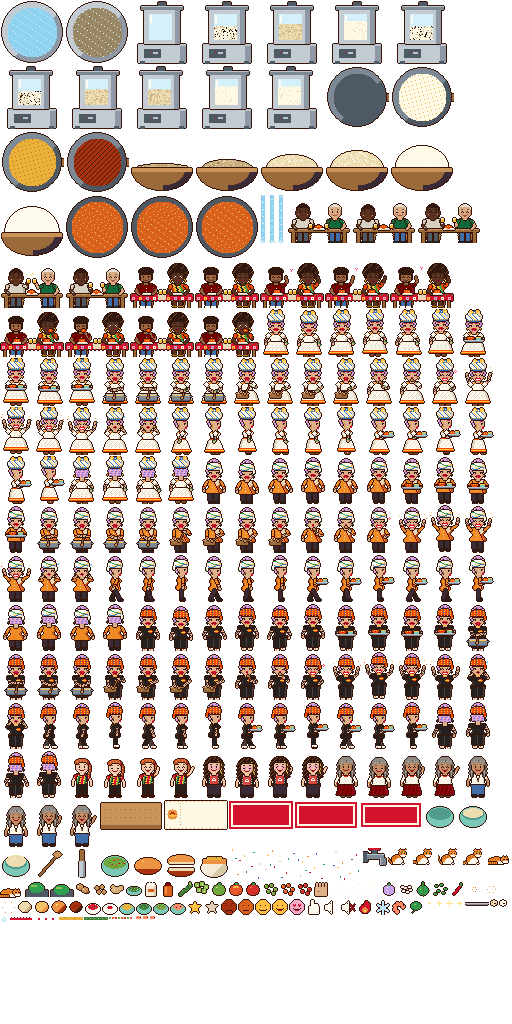
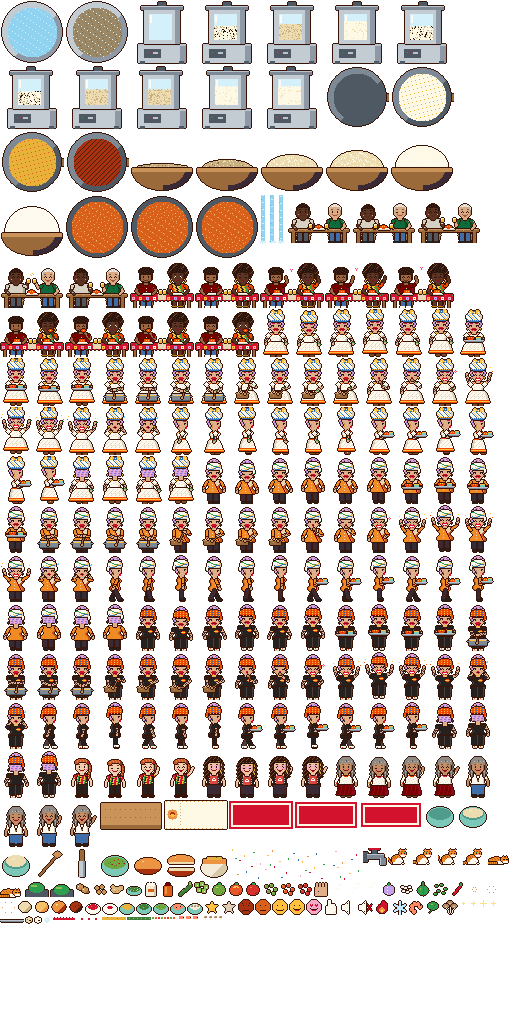
feat(acarabet): shimeji no lugar do camarão na versão vegetariana

diff --git a/src/jogo/cenas/etapas2.ts b/src/jogo/cenas/etapas2.ts
@@ -198,8 +198,9 @@ export class Fritar extends Etapa {
 }
 
 // ─── 8. Montar (na ordem certa e do jeito que o casal pediu) ──────────────────
-/** Potinhos na bancada: as duas pimentas (com pimenta 🔥 / pouca pimenta ❄), vatapá, caruru, salada e camarão. */
-const POTES = ['pimenta', 'pimenta_pouca', 'vatapa', 'caruru', 'salada', 'camarao'] as const;
+/** Potinhos na bancada: as duas pimentas (com pimenta 🔥 / pouca pimenta ❄), vatapá, caruru, salada, camarão e shimeji. */
+const POTES = ['pimenta', 'pimenta_pouca', 'vatapa', 'caruru', 'salada', 'camarao', 'shimeji'] as const;
+const X_POTE = (i: number) => 13 + i * 25.7;
 type Pote = (typeof POTES)[number];
 
 export class Montar extends Etapa {
@@ -219,7 +220,7 @@ export class Montar extends Etapa {
   protected montar() {
     this.feitos = this.erros = 0;
     const pimenta: Pote = estado.pimenta === 'forte' ? 'pimenta' : 'pimenta_pouca';
-    this.sequencia = [pimenta, 'vatapa', 'caruru', 'salada', ...(estado.vegetariano ? [] : (['camarao'] as Pote[]))];
+    this.sequencia = [pimenta, 'vatapa', 'caruru', 'salada', estado.vegetariano ? 'shimeji' : 'camarao'];
     // o acarajé aberto: as metades separadas pra caber o recheio no meio
     this.add.image(this.A.x, this.A.y, 'atlas', 'acaraje_aberto_0').setScale(3).setCrop(0, 17, 32, 15);
     this.cima = this.add.image(this.A.x, this.A.y, 'atlas', 'acaraje_aberto_0').setScale(3).setCrop(0, 0, 32, 17).setDepth(10);
@@ -228,15 +229,15 @@ export class Montar extends Etapa {
     this.marcas = this.sequencia.map((n, i) => this.add.image(12 + i * 18, 128, 'atlas', `pote_${n}_0`));
     this.add.rectangle(108, 120, 1, 16, COR.creme, 0.6).setOrigin(0);
     this.add.image(124, 128, 'atlas', estado.pimenta === 'forte' ? 'icone_fogo_0' : 'icone_frio_0');
-    this.add.image(144, 128, 'atlas', estado.vegetariano ? 'icone_veg_0' : 'icone_camarao_0');
+    this.add.image(144, 128, 'atlas', estado.vegetariano ? 'icone_shimeji_0' : 'icone_camarao_0');
     this.add.image(164, 128, 'atlas', 'acaraje_fechado_0').setScale(0.5);
     this.destacaProximo();
 
     POTES.forEach((n, i) => {
-      const x0 = 15 + i * 30, y0 = 294;
+      const x0 = X_POTE(i), y0 = 294;
       if (n === 'pimenta') this.add.image(x0, y0 - 22, 'atlas', 'icone_fogo_0');
       if (n === 'pimenta_pouca') this.add.image(x0, y0 - 22, 'atlas', 'icone_frio_0');
-      const p = this.add.image(x0, y0, 'atlas', `pote_${n}_0`).setScale(2).setDepth(30)
+      const p = this.add.image(x0, y0, 'atlas', `pote_${n}_0`).setScale(1.75).setDepth(30)
         .setInteractive({ draggable: true, useHandCursor: true });
       p.on('drag', (_p: Phaser.Input.Pointer, x: number, y: number) => this.rodando && p.setPosition(x, y));
       p.on('dragend', () => this.solta(n, p, x0, y0));
@@ -260,7 +261,8 @@ export class Montar extends Etapa {
     if (!dentro || !this.rodando) return volta();
     const esperado = this.sequencia[this.feitos];
     if (nome !== esperado) {
-      if (nome === 'camarao' && estado.vegetariano) this.erro('É VEGETARIANO!');
+      if (nome === 'camarao' && estado.vegetariano) this.erro('É VEGETARIANO: SHIMEJI!');
+      else if (nome === 'shimeji' && !estado.vegetariano) this.erro('É TRADICIONAL: CAMARÃO!');
       else if (nome === 'pimenta' && estado.pimenta === 'pouca') this.erro('É POUCA PIMENTA!');
       else if (nome === 'pimenta_pouca' && estado.pimenta === 'forte') this.erro('É COM PIMENTA!');
       else if (!this.sequencia.slice(0, this.feitos).includes(nome)) this.erro('NA ORDEM!');
@@ -286,6 +288,6 @@ export class Montar extends Etapa {
 
   protected demonstrar(mao: Phaser.GameObjects.Image) {
     const i = POTES.indexOf(this.sequencia[0]);
-    this.maoEntre(mao, [[15 + i * 30, 296], [this.A.x, this.A.y]], 800);
+    this.maoEntre(mao, [[X_POTE(i), 296], [this.A.x, this.A.y]], 800);
   }
 }

diff --git a/src/jogo/estado.ts b/src/jogo/estado.ts
@@ -24,11 +24,11 @@ export const ETAPAS: InfoEtapa[] = [
   { id: 'salada', cena: 'Salada', nome: 'SALADA', instrucao: 'TOQUE PRA PICAR QUANDO A FACA ESTIVER EM CIMA DO TOMATE: VERDE, MEIO AMARELADO E VERMELHO. CUIDADO COM O DEDO!' },
   { id: 'bater', cena: 'Bater', nome: 'BATER A MASSA', instrucao: 'TOQUE RAPIDINHO NA TELA PRA BATER. A MASSA VAI CRESCENDO ATÉ FICAR BRANQUINHA E LEVINHA!' },
   { id: 'fritar', cena: 'Fritar', nome: 'FRITAR', instrucao: 'TOQUE NA MASSA PRA JOGAR OS 4 BOLINHOS NO DENDÊ (OU NO TACHO, UM POR UM). DOUROU E BRILHOU? TOQUE PRA VIRAR. DOUROU DE NOVO? TOQUE PRA TIRAR.' },
-  { id: 'montar', cena: 'Montar', nome: 'MONTAR', instrucao: 'ARRASTE NA ORDEM: PIMENTA NO BOLINHO, VATAPÁ, CARURU, SALADA E CAMARÃO POR CIMA. OLHE O PEDIDO!' },
+  { id: 'montar', cena: 'Montar', nome: 'MONTAR', instrucao: 'ARRASTE NA ORDEM: PIMENTA NO BOLINHO, VATAPÁ, CARURU, SALADA E, POR CIMA, CAMARÃO (OU SHIMEJI NO VEGETARIANO). OLHE O PEDIDO!' },
   { id: 'servir', cena: 'Servir', nome: 'SERVIR', instrucao: 'TOQUE NA MESA DO CASAL PRA BIA LEVAR O ACARAJÉ QUENTINHO.' },
 ];
 
-/** Ordem da montagem (a pimenta varia: com pimenta ou pouca pimenta; o camarão só no tradicional). */
+/** Ordem da montagem (a pimenta varia: com pimenta ou pouca pimenta; por cima, camarão no tradicional e shimeji no vegetariano). */
 export const ORDEM_MONTAGEM = ['pimenta', 'vatapa', 'caruru', 'salada', 'camarao'] as const;
 
 const MAX_ESTRELAS = ETAPAS.length * 3;
@@ -55,7 +55,7 @@ export const estado = {
   roupa: 'baiana' as Roupa,
   /** Pedido do casal: 'forte' (foguinho) = com pimenta · 'pouca' (friozinho) = pouca pimenta. */
   pimenta: 'forte' as 'forte' | 'pouca',
-  /** Tradicional leva camarão por cima; vegetariano, não. */
+  /** Tradicional leva camarão por cima; vegetariano leva shimeji. */
   vegetariano: false,
   estrelas: {} as Record<string, number>,
   fila: [] as string[], // etapas que faltam (na primeira vez, todas; depois, as que vai refazer)
@@ -82,9 +82,9 @@ export function nivelSatisfacao(): number {
   return proporcao < 0.4 ? 0 : proporcao < 0.55 ? 1 : proporcao < 0.67 ? 2 : proporcao < 0.85 ? 3 : 4;
 }
 
-/** Texto do pedido, ex.: "TRADICIONAL COM PIMENTA" / "VEGETARIANO COM POUCA PIMENTA". */
+/** Texto do pedido, ex.: "TRADICIONAL, COM CAMARÃO E PIMENTA" / "VEGETARIANO, COM SHIMEJI E POUCA PIMENTA". */
 export const textoPedido = () =>
-  `${estado.vegetariano ? 'VEGETARIANO' : 'TRADICIONAL'} COM ${estado.pimenta === 'pouca' ? 'POUCA ' : ''}PIMENTA`;
+  `${estado.vegetariano ? 'VEGETARIANO, COM SHIMEJI' : 'TRADICIONAL, COM CAMARÃO'} E ${estado.pimenta === 'pouca' ? 'POUCA ' : ''}PIMENTA`;
 
 export const satisfeito = () => totalEstrelas() >= META_SATISFACAO || estado.rodada >= 2; // ninguém sai sem cupom
 export const infoEtapa = (id: string) => ETAPAS.find((e) => e.id === id)!;

diff --git a/src/jogo/main.ts b/src/jogo/main.ts
@@ -10,7 +10,7 @@ import { Lavar, Triturar, Temperos, Vatapa, Caruru, Salada } from './cenas/etapa
 import { Bater, Fritar, Montar } from './cenas/etapas2';
 import { Servir } from './cenas/Servir';
 import { Premio, Cupom } from './cenas/Premio';
-import { config, type Config } from './estado';
+import { config, estado, type Config } from './estado';
 import { definirRaiz } from './cupom';
 import { fritando } from './som';
 
@@ -92,6 +92,9 @@ export function iniciarJogo(raiz: HTMLElement, cfg: Partial<Config> = {}) {
   // Atalho de teste (só em desenvolvimento): /acarabet?cena=Fritar
   const cena = new URLSearchParams(location.search).get('cena');
   if (import.meta.env.DEV && cena) {
+    const q = new URLSearchParams(location.search);
+    if (q.get('veg') === '1') estado.vegetariano = true;
+    if (q.get('pimenta') === 'pouca') estado.pimenta = 'pouca';
     game.events.once('ready', () => {
       const carregar = game.scene.getScene('Carregando');
       carregar.events.once('shutdown', () => {

diff --git a/src/jogo/cenas/Pedido.ts b/src/jogo/cenas/Pedido.ts
@@ -15,7 +15,7 @@ export class Pedido extends Phaser.Scene {
     botaoSom(this);
     const c = salao.posicoes.casal;
 
-    // Balão de pedido centralizado em cima do casal: acarajé + pimenta (foguinho/friozinho) + camarão ou folhinha
+    // Balão de pedido centralizado em cima do casal: acarajé + pimenta (foguinho/friozinho) + camarão ou shimeji
     const larguras = [32, 16, 16], espaco = 6, margem = 6, bh = 30;
     const bw = larguras.reduce((a, b) => a + b, 0) + espaco * (larguras.length - 1) + margem * 2;
     const meio = c.x + 32; // o sprite do casal tem 64 px
@@ -30,7 +30,7 @@ export class Pedido extends Phaser.Scene {
     const frames = [
       'acaraje_fechado_0',
       estado.pimenta === 'forte' ? 'icone_fogo_0' : 'icone_frio_0',
-      estado.vegetariano ? 'icone_veg_0' : 'icone_camarao_0',
+      estado.vegetariano ? 'icone_shimeji_0' : 'icone_camarao_0',
     ];
     let x = bx + margem;
     const icones = frames.map((f, i) => {

diff --git a/src/jogo/cenas/Carregando.ts b/src/jogo/cenas/Carregando.ts
@@ -22,7 +22,7 @@ export class Carregando extends Phaser.Scene {
     this.load.on('progress', (p: number) => {
       barra.clear().fillStyle(COR.dende).fillRect(30, 159, Math.round(w * p), 6);
     });
-    const v = '?v=7';
+    const v = '?v=8';
     this.load.atlas('atlas', '/jogo/atlas.png' + v, '/jogo/atlas.json' + v);
     this.load.bitmapFont('clara', '/jogo/fonte_clara.png' + v, '/jogo/fonte_clara.xml' + v);
     this.load.bitmapFont('escura', '/jogo/fonte_escura.png' + v, '/jogo/fonte_escura.xml' + v);

diff --git a/tools/sprites/objetos.py b/tools/sprites/objetos.py
@@ -30,6 +30,7 @@ C.update({
     'tomate_maduro': hx('d8322c'), 'tomate_maduro_luz': hx('ff7a62'), 'tomate_maduro_sombra': hx('9c1a18'),
     'gengibre': hx('d9b27a'), 'gengibre_sombra': hx('a8804a'),
     'fogo_amarelo': hx('ffd23f'), 'gelo': hx('bfe8ff'),
+    'shimeji': hx('b08a66'), 'shimeji_luz': hx('dcc2a0'), 'shimeji_talo': hx('f4ecdc'),
 })
 C.setdefault('teto_sombra', hx('ddd0b6'))
 
@@ -443,7 +444,7 @@ def acaraje_lado(estado):
     return [faz(32, 32, partes)]
 
 
-RECHEIOS = ('pimenta', 'pimenta_pouca', 'vatapa', 'caruru', 'salada', 'camarao')
+RECHEIOS = ('pimenta', 'pimenta_pouca', 'vatapa', 'caruru', 'salada', 'camarao', 'shimeji')
 
 
 def camada(nome):
@@ -462,6 +463,10 @@ def camada(nome):
     elif nome == 'camarao':
         for x in (2, 9, 16):
             p.ret(x, 0, x + 4, 2, 'camarao'); p.d(x + 4, 1, 'olho')
+    elif nome == 'shimeji':  # cogumelinhos por cima (versão vegetariana)
+        for x in (2, 7, 12, 17):
+            p.d(x + 1, 2, 'shimeji_talo'); p.d(x + 1, 3, 'shimeji_talo')
+            p.ret(x, 0, x + 2, 1, 'shimeji'); p.d(x, 0, 'shimeji_luz')
     elif nome == 'pimenta':
         p.ret(1, 2, 22, 3, 'batom')
         for x in range(2, 22, 3):
@@ -473,7 +478,7 @@ def camada(nome):
 
 
 def potinho(nome):
-    cor = {'vatapa': 'vatapa', 'caruru': 'quiabo', 'salada': 'tomate_verde', 'camarao': 'camarao',
+    cor = {'vatapa': 'vatapa', 'caruru': 'quiabo', 'salada': 'tomate_verde', 'camarao': 'camarao', 'shimeji': 'shimeji_talo',
            'pimenta': 'batom', 'pimenta_pouca': 'batom'}[nome]
     p = Parte()
     branco = nome.startswith('pimenta')
@@ -486,6 +491,9 @@ def potinho(nome):
         p.d(6, 7, 'tomate_luz'); p.d(10, 8, 'fita')
     elif nome == 'camarao':
         p.d(6, 8, 'olho'); p.d(10, 7, 'olho')
+    elif nome == 'shimeji':
+        for x in (5, 8, 11):
+            p.ret(x - 1, 6, x, 7, 'shimeji'); p.d(x - 1, 6, 'shimeji_luz')
     elif nome == 'caruru':
         p.d(7, 8, 'quiabo_luz')
     elif nome == 'salada':
@@ -590,6 +598,15 @@ def icone(nome):
             a = math.pi * (0.1 + k * 0.25)
             p.elipse(8 + 4.2 * math.cos(a), 8 - 4.2 * math.sin(a) + 1, 2.2, 2.2, 'camarao')
         p.d(12, 6, 'olho'); p.d(5, 5, 'tomate_luz')
+    elif nome == 'shimeji':  # buquê de shimeji: três chapeuzinhos marrons em talos branquinhos
+        partes = []
+        for (x, y, xb) in ((8, 4, 8), (4, 7, 7), (12, 7, 9)):  # o do meio fica atrás
+            m = Parte()
+            m.linha(x, y + 1, xb, 14, 'shimeji_talo', 1)
+            m.elipse(x, y, 2.8, 1.9, 'shimeji', ymax=y + 1)
+            m.d(x - 1, y, 'shimeji_luz'); m.d(x, y, 'shimeji_luz')
+            partes.append(m)
+        return [faz(16, 16, partes)]
     elif nome == 'veg':
         p.elipse(8, 7, 5, 4, 'fita')
         p.linha(4, 13, 11, 4, 'quiabo', 1); p.d(6, 5, 'quiabo_luz'); p.d(7, 5, 'quiabo_luz')
@@ -679,6 +696,6 @@ ITENS = {
     'estrela_cheia': lambda: estrela(True), 'estrela_vazia': lambda: estrela(False),
     **{f'carinha_{n}': (lambda n=n: carinha(n)) for n in range(5)},
     'maozinha': maozinha, 'som_on': lambda: som(True), 'som_off': lambda: som(False),
-    **{f'icone_{n}': (lambda n=n: icone(n)) for n in ('fogo', 'frio', 'camarao', 'veg')},
+    **{f'icone_{n}': (lambda n=n: icone(n)) for n in ('fogo', 'frio', 'camarao', 'veg', 'shimeji')},
     'cupom': cupom, 'carimbo': carimbo, 'confete': confete, 'brilho': brilho,
 }

diff --git a/docs/ACARABET-TECNICO.md b/docs/ACARABET-TECNICO.md
@@ -197,7 +197,7 @@ Com isso dá para ver em que etapa as pessoas desistem e quantos cupons viram vi
 **Regras de jogo implementadas**
 - Cada etapa dá 1 a 3 estrelas; refazer guarda sempre a melhor nota.
 - O casal fica satisfeito com **2/3 das estrelas** (20 de 30). Se não ficar, a Bia refaz as etapas mais fracas e serve de novo; na terceira rodada o casal aceita de qualquer jeito (ninguém sai sem cupom).
-- O pedido é sorteado a cada partida e aparece no balão do casal e na faixa da montagem: **com pimenta** (ícone de foguinho) ou **pouca pimenta** (ícone de friozinho), e **tradicional** (com camarão, ícone de camarão) ou **vegetariano** (sem camarão, ícone de folhinha).
+- O pedido é sorteado a cada partida e aparece no balão do casal e na faixa da montagem: **com pimenta** (ícone de foguinho) ou **pouca pimenta** (ícone de friozinho), e **tradicional** (camarão por cima, ícone de camarão) ou **vegetariano** (shimeji por cima, ícone de shimeji).
 
 **Processos de cada etapa (definidos com a equipe)**
 1. **Lavar o feijão:** feijão-fradinho (branco com o olhinho preto), que já vem quebrado da loja; o processo é só lavar, com a torneira aberta caindo água na bacia.
@@ -208,7 +208,7 @@ Com isso dá para ver em que etapa as pessoas desistem e quantos cupons viram vi
 6. **Salada:** tomate picado, misturando verde, meio amarelado (quase vermelho) e vermelho.
 7. **Bater a massa:** toquinhos na tela simulam a batida; a massa vai crescendo na bacia até ficar bem branquinha e levinha.
 8. **Fritar** no dendê: um toque na massa joga os 4 bolinhos de uma vez no tacho (ou um por um, tocando no tacho); virar e tirar no ponto. A janela do ponto é larga (5 s) pra dar conta dos 4 sem queimar.
-9. **Montar, nesta ordem:** pimenta no bolinho, vatapá, caruru, salada e camarão por cima (sem camarão no vegetariano). Pimenta errada, camarão no vegetariano ou fora de ordem contam como erro.
+9. **Montar, nesta ordem:** pimenta no bolinho, vatapá, caruru, salada e, por cima, camarão (tradicional) ou shimeji (vegetariano). Pimenta errada, camarão no vegetariano, shimeji no tradicional ou fora de ordem contam como erro.
 10. **Servir** na mesa do casal.
 - Tocar nos personagens do salão (Eliana, gêmeas, Valentina, tios, Pôr do Sol) faz eles acenarem/brindarem: são os easter eggs.
 
